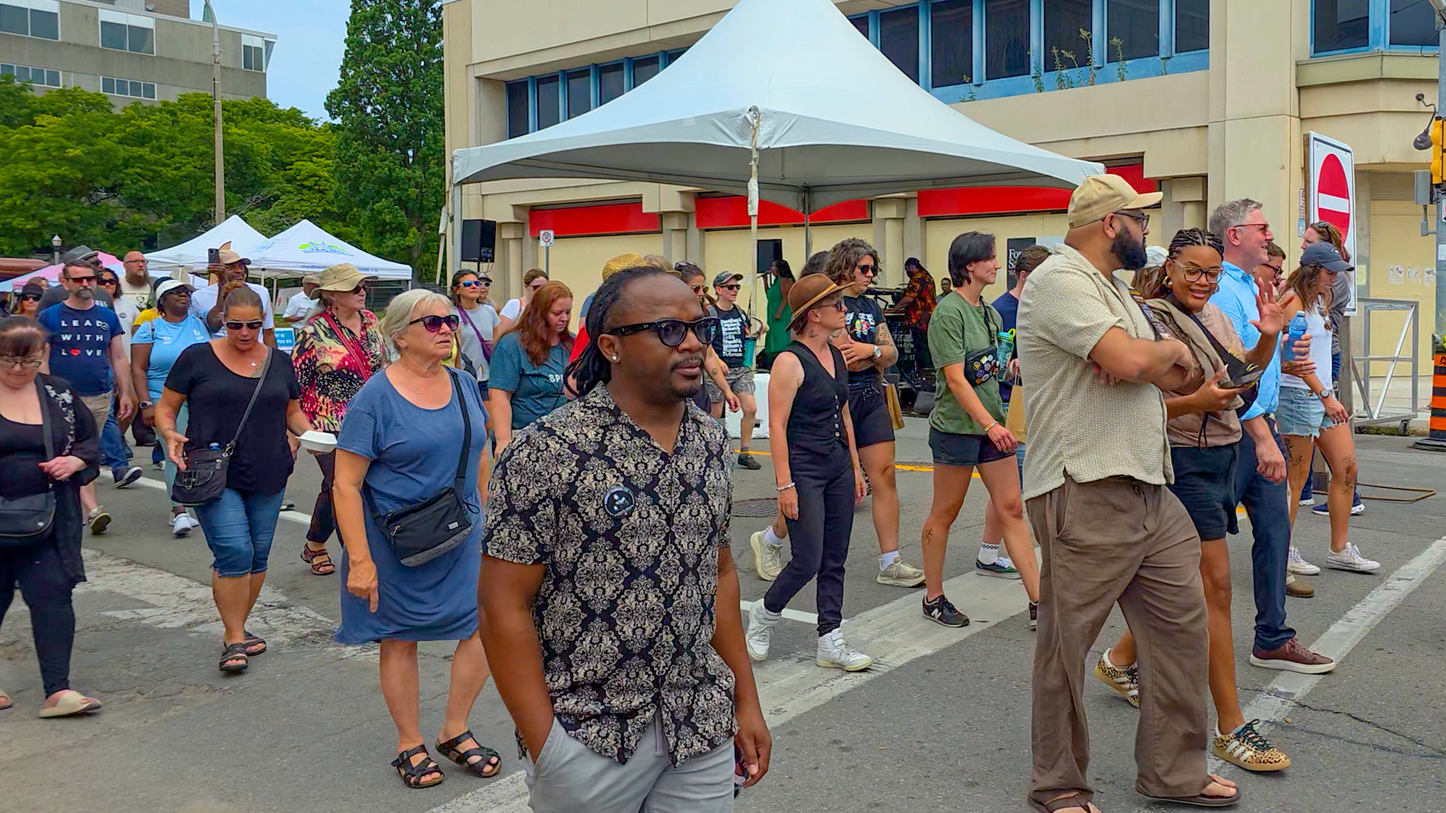
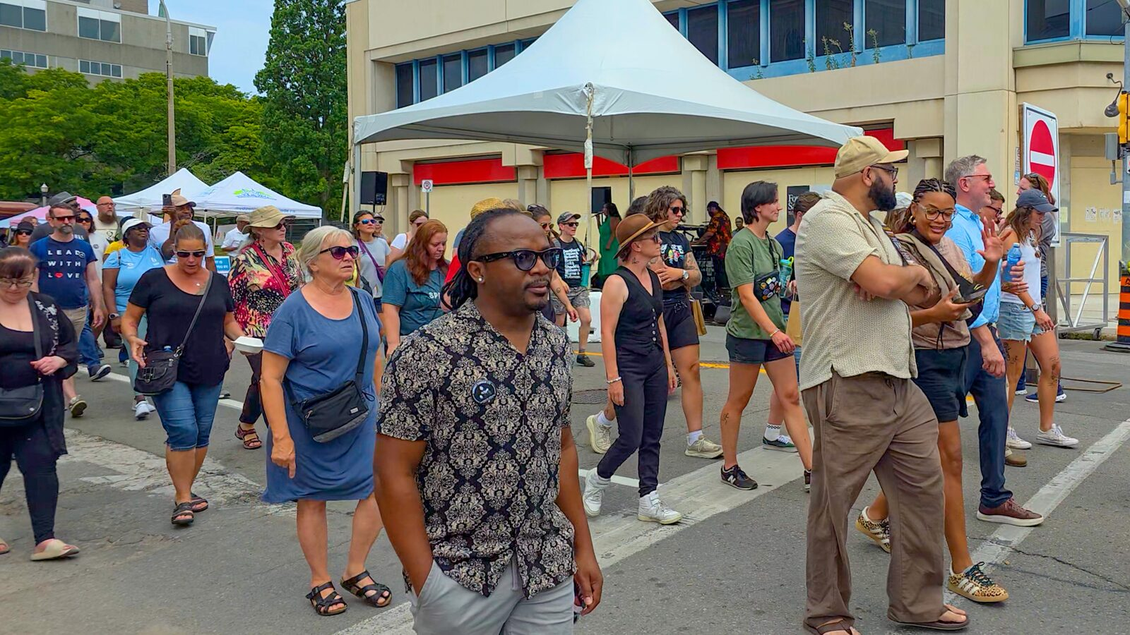
Add community event photos, campaign launch section, office info, and homepage message
- Wire in community engagement photos (compressed for web) with real gallery cards
- Add Campaign Launch category and placeholder slots for launch-day photos
- Add campaign office address, hours, and map to Contact page
- Add homepage statement on infrastructure, accountability, and local economy
- Fold infrastructure/economy/accountability content into existing platform commitments
- Add hover pop-out effect on event gallery photos

diff --git a/community.html b/community.html
@@ -82,6 +82,7 @@
         <!-- FILTER BAR -->
         <div class="filter-bar">
           <button class="filter-btn active" data-filter="all">All</button>
+          <button class="filter-btn" data-filter="launch">Campaign Launch</button>
           <button class="filter-btn" data-filter="canvassing">Canvassing</button>
           <button class="filter-btn" data-filter="business">Business Visits</button>
           <button class="filter-btn" data-filter="community">Community Events</button>
@@ -93,7 +94,7 @@
         <!-- EVENT CARDS GRID -->
         <div class="events-grid">
 
-          <div class="event-card" data-category="community">
+          <div class="event-card" data-category="launch">
             <div class="event-photo event-photo--flyer">
               <img src="assets/images/events/Campaign_Launch_Flyer.png" alt="Campaign Launch &amp; Meet the Candidate flyer">
               <span class="event-tag">Campaign Launch</span>
@@ -103,6 +104,45 @@
               <h3>Campaign Launch &amp; Meet the Candidate</h3>
               <p class="event-location">&#128205; 359 Carlton Street, St. Catharines, ON L2R 2Z4</p>
               <p>Join Anthony for the official campaign launch — meet the candidate, hear his vision, and be part of the change. Everyone welcome.</p>
+            </div>
+          </div>
+
+          <div class="event-card" data-category="launch">
+            <div class="event-photo event-photo--placeholder">
+              <span class="event-tag">Campaign Launch</span>
+              <p>Photo coming soon</p>
+            </div>
+            <div class="event-info">
+              <span class="event-date">August 22, 2026</span>
+              <h3>Launch Day Highlights</h3>
+              <p class="event-location">&#128205; 359 Carlton Street, St. Catharines</p>
+              <p>Anthony officially launched his campaign for Mayor — meeting supporters, sharing his vision, and kicking off the road to October 26.</p>
+            </div>
+          </div>
+
+          <div class="event-card" data-category="launch">
+            <div class="event-photo event-photo--placeholder">
+              <span class="event-tag">Campaign Launch</span>
+              <p>Photo coming soon</p>
+            </div>
+            <div class="event-info">
+              <span class="event-date">August 22, 2026</span>
+              <h3>Meeting Supporters at the Launch</h3>
+              <p class="event-location">&#128205; 359 Carlton Street, St. Catharines</p>
+              <p>Volunteers, neighbours, and supporters came together to celebrate the start of the campaign.</p>
+            </div>
+          </div>
+
+          <div class="event-card" data-category="launch">
+            <div class="event-photo event-photo--placeholder">
+              <span class="event-tag">Campaign Launch</span>
+              <p>Photo coming soon</p>
+            </div>
+            <div class="event-info">
+              <span class="event-date">August 22, 2026</span>
+              <h3>Anthony Addresses the Crowd</h3>
+              <p class="event-location">&#128205; 359 Carlton Street, St. Catharines</p>
+              <p>Anthony shares his vision for a stronger St. Catharines at the official campaign launch event.</p>
             </div>
           </div>
 
@@ -133,12 +173,12 @@
           </div>
 
           <div class="event-card" data-category="community">
-            <div class="event-photo event-photo--placeholder">
+            <div class="event-photo">
+              <img src="assets/images/Community_Engagement_Events/Community_a.jpg" alt="Anthony connecting with residents at a community street festival">
               <span class="event-tag">Community Event</span>
-              <p>Photo coming soon</p>
             </div>
             <div class="event-info">
-              <span class="event-date">Coming 2026</span>
+              <span class="event-date">2026</span>
               <h3>Community Engagement Event</h3>
               <p class="event-location">&#128205; St. Catharines</p>
               <p>Connecting with residents at community events across the city — building the relationships that make St. Catharines stronger.</p>
@@ -146,15 +186,54 @@
           </div>
 
           <div class="event-card" data-category="faith">
-            <div class="event-photo event-photo--placeholder">
+            <div class="event-photo">
+              <img src="assets/images/Community_Engagement_Events/Community_Jesus-festival.jpg" alt="Anthony engaging with community members at a faith-based outreach event">
               <span class="event-tag">Faith &amp; Cultural</span>
-              <p>Photo coming soon</p>
             </div>
             <div class="event-info">
-              <span class="event-date">Coming 2026</span>
+              <span class="event-date">2026</span>
               <h3>Faith Community Visit</h3>
               <p class="event-location">&#128205; St. Catharines</p>
               <p>Anthony values the important role faith communities play in the social fabric of St. Catharines and is committed to being a mayor for all residents.</p>
+            </div>
+          </div>
+
+          <div class="event-card" data-category="community">
+            <div class="event-photo">
+              <img src="assets/images/Community_Engagement_Events/Community_event_at_Niagara-falls.jpg" alt="Anthony at a community outreach event">
+              <span class="event-tag">Community Event</span>
+            </div>
+            <div class="event-info">
+              <span class="event-date">2026</span>
+              <h3>Connecting with Residents</h3>
+              <p class="event-location">&#128205; St. Catharines</p>
+              <p>Anthony out meeting residents and community groups — every conversation is a chance to listen and build a stronger St. Catharines together.</p>
+            </div>
+          </div>
+
+          <div class="event-card" data-category="meeting">
+            <div class="event-photo">
+              <img src="assets/images/Community_Engagement_Events/Community_speaker.jpg" alt="Anthony speaking at a community event on mental health and wellness">
+              <span class="event-tag">Meeting</span>
+            </div>
+            <div class="event-info">
+              <span class="event-date">2026</span>
+              <h3>Community Speaking Engagement</h3>
+              <p class="event-location">&#128205; St. Catharines</p>
+              <p>Anthony speaking with community members on health, wellness, and building stronger support systems across St. Catharines.</p>
+            </div>
+          </div>
+
+          <div class="event-card" data-category="meeting">
+            <div class="event-photo">
+              <img src="assets/images/Community_Engagement_Events/Speaker_at_a_Community_event.jpg" alt="Anthony addressing attendees at a community speaking engagement">
+              <span class="event-tag">Meeting</span>
+            </div>
+            <div class="event-info">
+              <span class="event-date">2026</span>
+              <h3>Engaging with the Community</h3>
+              <p class="event-location">&#128205; St. Catharines</p>
+              <p>Anthony sharing his vision and engaging directly with residents — because leadership starts with listening.</p>
             </div>
           </div>
 

diff --git a/index.html b/index.html
@@ -114,6 +114,29 @@
     </div>
 
     <!-- TOP 3 ISSUES -->
+    <!-- MESSAGE FROM ANTHONY -->
+    <section class="section-padding bg-navy">
+      <div class="container text-white" style="max-width:820px;margin:0 auto;">
+        <div class="text-center animate-fade-in">
+          <p class="label-tag">A MESSAGE FROM ANTHONY</p>
+          <h2 class="text-white">Building a City That Works for Everyone</h2>
+        </div>
+        <div class="mt-lg" style="background:var(--white);color:var(--body-text);padding:40px;border-radius:var(--radius-card);box-shadow:0 12px 40px rgba(0,0,0,0.3);font-size:17px;line-height:1.8;">
+          <p>St. Catharines deserves leadership that focuses on the fundamentals while planning responsibly for the future.</p>
+          <p>Recent flooding has reminded us of the importance of our aging infrastructure. Roads, stormwater systems, sewers, and other critical infrastructure cannot simply be addressed when something fails. We need responsible long-term planning, clear priorities, and stronger efforts to secure available funding from other levels of government — so that necessary improvements do not fall entirely on local taxpayers.</p>
+          <p>We also need to restore accountability and accessible representation at City Hall. Residents deserve to know how decisions are made, how their tax dollars are being used, and that their concerns will be heard. As mayor, I will work to make City Hall more open, responsive, and connected to the people it serves.</p>
+          <p>And we must strengthen our local economy. St. Catharines should be a city where businesses want to invest, entrepreneurs can grow, and residents can find good jobs close to home. That means reducing unnecessary barriers, supporting our existing businesses, attracting responsible new investment, and working collaboratively with economic development partners across Niagara.</p>
+        </div>
+        <blockquote class="hero-quote">
+          My commitment is straightforward: protect the infrastructure we depend on, restore trust and accountability, and build an economy that creates greater opportunity for everyone.
+          <cite>— Anthony A. Adeoye</cite>
+        </blockquote>
+        <div class="text-center mt-lg">
+          <a href="platform.html" class="btn-primary">See My Full Platform &rarr;</a>
+        </div>
+      </div>
+    </section>
+
     <section class="section-padding bg-off-white">
       <div class="container">
         <div class="text-center animate-fade-in">
@@ -173,14 +196,6 @@
             <p>I am Anthony A. Adeoye — a community-focused leader, business professional, and advocate for responsible growth, public service, and civic engagement. With a career built on operational excellence across Canada Post, the Toronto Transit Commission, and VEC Ventures, I have spent years delivering results for communities and organizations.</p>
             <p>I am running for Mayor because leadership is not about titles — it is about service, accountability, and creating opportunities for people to thrive. The residents of St. Catharines deserve practical leadership, fresh ideas, and a people-first approach at City Hall.</p>
             <a href="about.html" class="btn-primary mt-lg">Learn More About Anthony &rarr;</a>
-            <div>
-              <img src="assets/images/city/city-city-hall.jpg"
-                   alt="St. Catharines City Hall"
-                   class="about-preview__extra-img"
-                   onerror="this.style.display='none';this.nextElementSibling.style.display='flex'">
-              <div class="about-preview__extra-img-placeholder" style="display:none">St. Catharines City Hall</div>
-              <p class="about-preview__img-caption">St. Catharines City Hall</p>
-            </div>
           </div>
         </div>
       </div>

diff --git a/platform.html b/platform.html
@@ -98,6 +98,7 @@
             <div class="platform-card__title">Responsible Fiscal Management</div>
             <span class="platform-card__stat">10.5% property tax hike 2023 &middot; $258,000 median home assessed value</span>
             <p class="platform-card__text">Residents were hit with a 10.5% tax increase in 2023. I commit to fiscally responsible budgets — increases at or below inflation — while working with council to identify efficiency savings and attract investment that grows the tax base without adding burden to existing homeowners and renters. The Strong Mayor budget power means the mayor tables the budget — I will use that power responsibly.</p>
+            <p class="platform-card__text">Recent flooding has reminded us how much pressure our aging infrastructure is under. Roads, stormwater systems, sewers, and other critical infrastructure cannot simply be addressed when something fails. I will push for responsible long-term infrastructure planning, clear priorities, and stronger efforts to secure available funding from other levels of government — so necessary improvements do not fall entirely on local taxpayers.</p>
           </div>
 
           <div class="platform-card animate-slide-up delay-3">
@@ -111,7 +112,7 @@
             <div class="platform-card__num">04</div>
             <div class="platform-card__title">Economic Growth &amp; Small Business</div>
             <span class="platform-card__stat">Median household income $72,500 &middot; St. Catharines — 8th largest urban area in Ontario</span>
-            <p class="platform-card__text">St. Catharines has enormous economic potential. As mayor I will champion small business through faster permit processing, stronger BIA partnerships, and a mayor's office that actively promotes local business and attracts new investment to the city.</p>
+            <p class="platform-card__text">St. Catharines has enormous economic potential. St. Catharines should be a city where businesses want to invest, entrepreneurs can grow, and residents can find good jobs close to home. As mayor I will champion small business through faster permit processing, reducing unnecessary barriers, and stronger BIA partnerships — while working collaboratively with economic development partners across Niagara to attract responsible new investment and a mayor's office that actively promotes local business.</p>
           </div>
 
           <div class="platform-card animate-slide-up delay-1">
@@ -149,7 +150,7 @@
           <div class="platform-card animate-slide-up delay-2">
             <div class="platform-card__num">10</div>
             <div class="platform-card__title">Transparent &amp; Accountable Leadership</div>
-            <p class="platform-card__text">I will hold myself to the same performance standards I applied in every leadership role throughout my career. Regular public progress reports. Open office hours. Accessible, responsive, and always working for the residents of St. Catharines. As mayor, I will use my influence with council — not claim powers I do not have.</p>
+            <p class="platform-card__text">Residents deserve to know how decisions are made, how their tax dollars are being used, and that their concerns will be heard. As mayor, I will work to make City Hall more open, responsive, and connected to the people it serves. I will hold myself to the same performance standards I applied in every leadership role throughout my career — regular public progress reports, open office hours, and always working for the residents of St. Catharines. I will use my influence with council — not claim powers I do not have.</p>
           </div>
 
         </div>

diff --git a/contact.html b/contact.html
@@ -157,7 +157,7 @@
                 <div class="contact-detail-item__icon">&#127970;</div>
                 <div class="contact-detail-item__text">
                   <strong>Campaign Office</strong>
-                  <span>Campaign office address — coming soon</span>
+                  <span>359 Carlton St #203<br>St. Catharines, ON L2N 1C2<br>Mon&ndash;Sat, 10:00 AM&ndash;6:00 PM</span>
                 </div>
               </div>
             </div>
@@ -189,12 +189,12 @@
         <!-- MAP -->
         <div class="map-wrapper mt-xl" id="endorsements">
           <iframe
-            src="https://maps.google.com/maps?q=St.+Catharines+Ontario&output=embed"
+            src="https://maps.google.com/maps?q=359+Carlton+St,+St.+Catharines,+ON+L2N+1C2&output=embed"
             width="100%"
             height="300"
             style="border:0;"
             loading="lazy"
-            title="St. Catharines, Ontario — Campaign Location"
+            title="Campaign Office — 359 Carlton St #203, St. Catharines, ON"
             allowfullscreen></iframe>
         </div>
 

diff --git a/assets/css/components.css b/assets/css/components.css
@@ -627,6 +627,7 @@
 }
 
 .event-card {
+  position: relative;
   background: var(--white);
   border-radius: var(--radius-card);
   box-shadow: var(--shadow-card);
@@ -636,6 +637,8 @@
 .event-card:hover {
   transform: translateY(-4px);
   box-shadow: 0 8px 32px rgba(13,32,64,0.15);
+  overflow: visible;
+  z-index: 10;
 }
 
 .event-photo {
@@ -643,7 +646,23 @@
   height: 220px;
   overflow: hidden;
 }
-.event-photo img { width: 100%; height: 100%; object-fit: cover; }
+.event-photo img { width: 100%; height: 100%; object-fit: cover; transition: transform 0.3s ease; }
+
+.event-card:hover .event-photo { overflow: visible; }
+.event-card:hover .event-photo img {
+  position: absolute;
+  top: 50%;
+  left: 50%;
+  width: 220%;
+  height: 220%;
+  max-width: none;
+  max-height: none;
+  transform: translate(-50%, -50%);
+  object-fit: contain;
+  background: var(--navy);
+  border-radius: var(--radius-card);
+  box-shadow: 0 24px 60px rgba(13,32,64,0.45);
+}
 
 .event-photo--placeholder {
   background: linear-gradient(135deg, var(--ltblue) 0%, var(--off-white) 100%);
